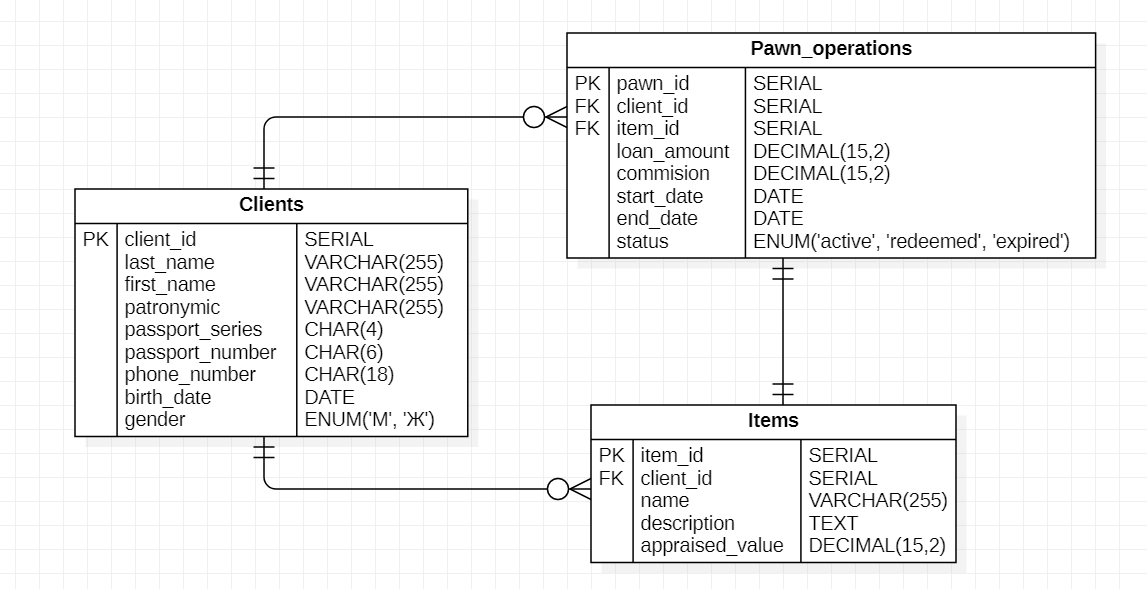
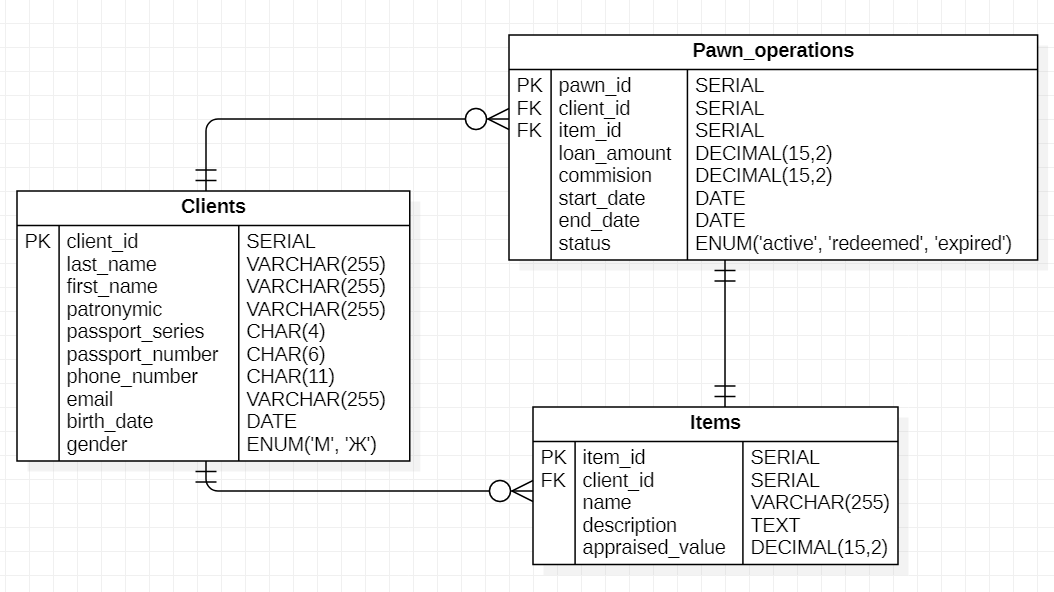
Добавлены статические методы валидации

diff --git a/Client.cs b/Client.cs
@@ -10,6 +10,7 @@ namespace Lombard
         private string _passportSeries;
         private string _passportNumber;
         private string _phoneNumber;
+        private string _email;
         private DateTime _birthDate;
         private Gender _gender;
         #endregion
@@ -20,43 +21,81 @@ namespace Lombard
         public string LastName
         {
             get => _lastName;
-            set => _lastName = !string.IsNullOrWhiteSpace(value) ? value : throw new ArgumentException("Фамилия не может быть пустой");
+            set
+            {
+                ValidateLastName(value);
+                _lastName = value;
+            }
         }
 
         public string FirstName
         {
             get => _firstName;
-            set => _firstName = !string.IsNullOrWhiteSpace(value) ? value : throw new ArgumentException("Имя не может быть пустым");
+            set
+            {
+                ValidateFirstName(value);
+                _firstName = value;
+            }
         }
 
         public string Patronymic
         {
             get => _patronymic;
-            set => _patronymic = value ?? string.Empty;
+            set
+            {
+                ValidatePatronymic(value);
+                _patronymic = value ?? string.Empty;
+            }
         }
 
         public string PassportSeries
         {
             get => _passportSeries;
-            set => _passportSeries = !string.IsNullOrWhiteSpace(value) ? value : throw new ArgumentException("Серия паспорта не может быть пустой");
+            set
+            {
+                ValidatePassportSeries(value);
+                _passportSeries = value;
+            }
         }
 
         public string PassportNumber
         {
             get => _passportNumber;
-            set => _passportNumber = !string.IsNullOrWhiteSpace(value) ? value : throw new ArgumentException("Номер паспорта не может быть пустым");
+            set
+            {
+                ValidatePassportNumber(value);
+                _passportNumber = value;
+            }
         }
 
         public string PhoneNumber
         {
             get => _phoneNumber;
-            set => _phoneNumber = !string.IsNullOrWhiteSpace(value) ? value : throw new ArgumentException("Номер телефона не может быть пустым");
+            set
+            {
+                ValidatePhoneNumber(value);
+                _phoneNumber = value;
+            }
+        }
+
+        public string Email
+        {
+            get => _email;
+            set
+            {
+                ValidateEmail(value);
+                _email = value;
+            }
         }
 
         public DateTime BirthDate
         {
             get => _birthDate;
-            set => _birthDate = value <= DateTime.Now ? value : throw new ArgumentException("Дата рождения не может быть в будущем");
+            set
+            {
+                ValidateBirthDate(value);
+                _birthDate = value;
+            }
         }
 
         public Gender ClientGender
@@ -78,6 +117,7 @@ namespace Lombard
             string phoneNumber,
             Gender gender,
             string patronymic = null,
+            string email = null,
             int id = 0
         )
         {
@@ -89,7 +129,8 @@ namespace Lombard
             PassportNumber = passportNumber;
             BirthDate = birthDate;
             PhoneNumber = phoneNumber;
-            _gender = gender;
+            ClientGender = gender;
+            Email = email;
         }
         #endregion
 
@@ -97,11 +138,150 @@ namespace Lombard
         public enum Gender
         {
             Male,
-            Female
+            Female,
         }
         #endregion
 
-        #region Методы
+        #region Статические методы валидации
+        public static bool ValidateLastName(string lastName)
+        {
+            if (string.IsNullOrWhiteSpace(lastName))
+                throw new ArgumentException("Фамилия не может быть пустой");
+
+            if (!System.Text.RegularExpressions.Regex.IsMatch(lastName, @"^[a-zA-Zа-яА-ЯёЁ\- ]+$"))
+                throw new ArgumentException("Фамилия может содержать только буквы, дефисы и пробелы");
+
+            if (lastName.Length < 2)
+                throw new ArgumentException("Фамилия должна содержать минимум 2 символа");
+
+            if (lastName.Length > 255)
+                throw new ArgumentException("Фамилия не может превышать 255 символов");
+
+            return true;
+        }
+
+        public static bool ValidateFirstName(string firstName)
+        {
+            if (string.IsNullOrWhiteSpace(firstName))
+                throw new ArgumentException("Имя не может быть пустым");
+
+            if (!System.Text.RegularExpressions.Regex.IsMatch(firstName, @"^[a-zA-Zа-яА-ЯёЁ\- ]+$"))
+                throw new ArgumentException("Имя может содержать только буквы, дефисы и пробелы");
+
+            if (firstName.Length < 2)
+                throw new ArgumentException("Имя должно содержать минимум 2 символа");
+
+            if (firstName.Length > 255)
+                throw new ArgumentException("Имя не может превышать 255 символов");
+
+            return true;
+        }
+
+        public static bool ValidatePatronymic(string patronymic)
+        {
+            if (patronymic == null) return true;
+
+            if (!System.Text.RegularExpressions.Regex.IsMatch(patronymic, @"^[a-zA-Zа-яА-ЯёЁ\- ]*$"))
+                throw new ArgumentException("Отчество может содержать только буквы, дефисы и пробелы");
+
+            if (patronymic.Length > 255)
+                throw new ArgumentException("Отчество не может превышать 255 символов");
+
+            return true;
+        }
+
+        public static bool ValidatePassportSeries(string passportSeries)
+        {
+            if (string.IsNullOrWhiteSpace(passportSeries))
+                throw new ArgumentException("Серия паспорта не может быть пустой");
+
+            if (!System.Text.RegularExpressions.Regex.IsMatch(passportSeries, @"^\d{4}$"))
+                throw new ArgumentException("Серия паспорта должна состоять из 4 цифр");
+
+            return true;
+        }
+
+        public static bool ValidatePassportNumber(string passportNumber)
+        {
+            if (string.IsNullOrWhiteSpace(passportNumber))
+                throw new ArgumentException("Номер паспорта не может быть пустым");
+
+            if (!System.Text.RegularExpressions.Regex.IsMatch(passportNumber, @"^\d{6}$"))
+                throw new ArgumentException("Номер паспорта должен состоять из 6 цифр");
+
+            return true;
+        }
+
+        public static bool ValidatePhoneNumber(string phoneNumber)
+        {
+            if (string.IsNullOrWhiteSpace(phoneNumber))
+                throw new ArgumentException("Номер телефона не может быть пустым");
+
+            string cleanPhone = System.Text.RegularExpressions.Regex.Replace(phoneNumber, @"\D", "");
+
+            if (cleanPhone.Length != 11)
+                throw new ArgumentException("Номер телефона должен содержать 11 цифр");
+
+            return true;
+        }
+
+        public static bool ValidateEmail(string email)
+        {
+            if (string.IsNullOrEmpty(email)) return true;
+
+            if (email.Length > 255)
+                throw new ArgumentException("Email не может превышать 255 символов");
+
+            try
+            {
+                var addr = new System.Net.Mail.MailAddress(email);
+                if (addr.Address != email)
+                    throw new ArgumentException("Некорректный формат email");
+            }
+            catch
+            {
+                throw new ArgumentException("Некорректный формат email");
+            }
+
+            return true;
+        }
+
+        public static bool ValidateBirthDate(DateTime birthDate)
+        {
+            if (birthDate > DateTime.Now)
+                throw new ArgumentException("Дата рождения не может быть в будущем");
+
+            if (birthDate < DateTime.Now.AddYears(-150))
+                throw new ArgumentException("Дата рождения не может быть более 150 лет назад");
+
+            int age = DateTime.Now.Year - birthDate.Year - (DateTime.Now.DayOfYear < birthDate.DayOfYear ? 1 : 0);
+            if (age < 14)
+                throw new ArgumentException("Клиент должен быть старше 14 лет");
+
+            if (age > 150)
+                throw new ArgumentException("Возраст клиента не может превышать 150 лет");
+
+            return true;
+        }
+
+        public static bool ValidateGender(Gender gender)
+        {
+            if (!Enum.IsDefined(typeof(Gender), gender))
+                throw new ArgumentException("Некорректное значение пола");
+
+            return true;
+        }
+
+        public static bool ValidateId(int id)
+        {
+            if (id < 0)
+                throw new ArgumentException("ID не может быть отрицательным");
+
+            return true;
+        }
+        #endregion
+
+        #region Обычные методы
         public override string ToString()
         {
             return $"{LastName} {FirstName} {Patronymic}".Trim();
@@ -114,7 +294,29 @@ namespace Lombard
 
         public string GetFullInfo()
         {
-            return $"{ToString()}, паспорт: {GetFullPassportData()}, тел.: {PhoneNumber}, возраст: {Age}";
+            return $"{ToString()}, паспорт: {GetFullPassportData()}, тел.: {PhoneNumber}, email: {Email}, возраст: {Age}";
+        }
+
+        public bool IsValid()
+        {
+            try
+            {
+                ValidateLastName(_lastName);
+                ValidateFirstName(_firstName);
+                ValidatePatronymic(_patronymic);
+                ValidatePassportSeries(_passportSeries);
+                ValidatePassportNumber(_passportNumber);
+                ValidatePhoneNumber(_phoneNumber);
+                ValidateEmail(_email);
+                ValidateBirthDate(_birthDate);
+                ValidateGender(_gender);
+                ValidateId(_id);
+                return true;
+            }
+            catch
+            {
+                return false;
+            }
         }
         #endregion
     }

diff --git a/Program.cs b/Program.cs
@@ -1,23 +1,21 @@
 namespace Lombard
 {
     #region Проверка класса
-    // Дополнительный класс с точкой входа
     public class Program
     {
         public static void Main(string[] args)
         {
-            // Теперь этот код находится внутри метода Main
             Client client = new Client(
-                lastName: "Иванов11",
-                firstName: "Петр13",
-                passportSeries: "4501А",
-                passportNumber: "1234567",
-                birthDate: new DateTime(2055, 5, 15),
-                phoneNumber: "+7-912-345-67-89123",
+                lastName: "Иванов",
+                firstName: "Петр",
+                passportSeries: "4501",
+                passportNumber: "123456",
+                birthDate: new DateTime(2005, 5, 15),
+                phoneNumber: "+7-912-345-67-89",
+                email: "example@example.com",
                 gender: Client.Gender.Male
             );
 
-            // Пример использования
             Console.WriteLine(client.GetFullInfo());
         }
     }
